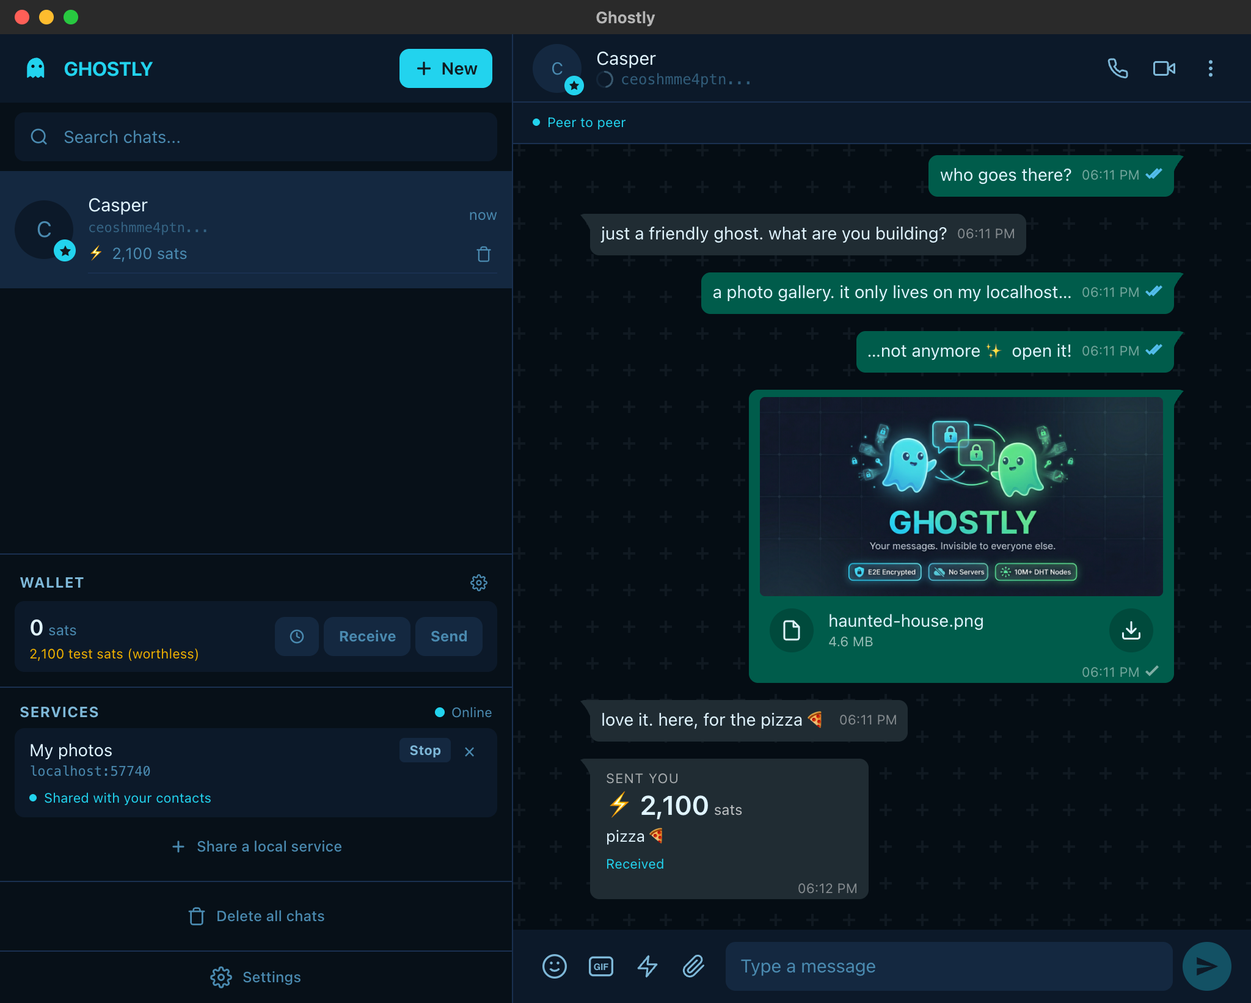
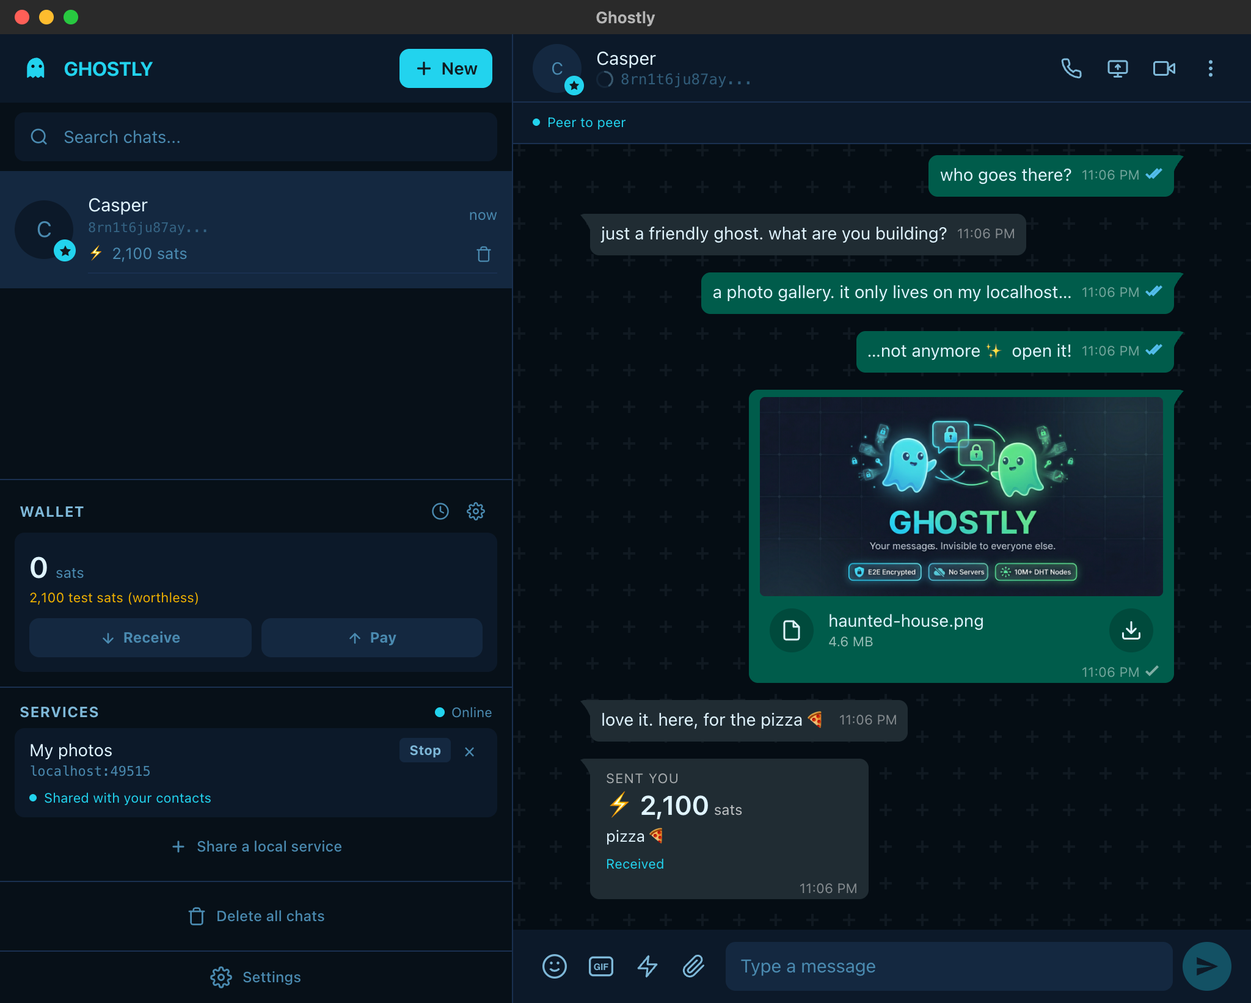
chore(release): 0.3.0
Version 0.3.0 everywhere, through a new scripts/bump-version.mjs that
sets every package.json, the lock files, the extension manifest, the
Tauri config, both crates, the website's download links and the install
guide in one go. The site now builds its download links from
website/lib/release.ts instead of repeating the version in ten places.

docs/INSTALLATION.md still pointed at v0.1.4 and did not mention the web
app or the extension. README features, WEB.md (phones, installing),
PROTOCOL.md (long messages over the data link), the site's features,
clients, FAQ and protocol docs, and its screenshots are brought up to
date. docs/RELEASING.md writes the release steps down.

diff --git a/website/components/Download.tsx b/website/components/Download.tsx
@@ -1,5 +1,6 @@
 "use client";
 
+import { DOWNLOADS, RELEASE_URL, VERSION } from "@/lib/release";
 import { motion } from "motion/react";
 import { Icon, IconTile } from "./icons";
 import { useEffect, useState } from "react";
@@ -145,7 +146,7 @@ export function Download() {
             </div>
             <div className="flex flex-col gap-2">
               <a
-                href="https://github.com/MiguelMedeiros/ghostly/releases/download/v0.2.0/Ghostly_0.2.0_aarch64.dmg"
+                href={DOWNLOADS.macArm}
                 className="flex items-center justify-between px-3 py-2 rounded-lg bg-cyan/10 text-cyan text-sm font-medium hover:bg-cyan/20 transition-colors"
               >
                 <span>Apple Silicon</span>
@@ -154,7 +155,7 @@ export function Download() {
                 </svg>
               </a>
               <a
-                href="https://github.com/MiguelMedeiros/ghostly/releases/download/v0.2.0/Ghostly_0.2.0_x64.dmg"
+                href={DOWNLOADS.macIntel}
                 className="flex items-center justify-between px-3 py-2 rounded-lg bg-gray-800/50 text-gray-400 text-sm hover:bg-gray-800 hover:text-gray-200 transition-colors"
               >
                 <span>Intel</span>
@@ -177,7 +178,7 @@ export function Download() {
             </div>
             <div className="flex flex-col gap-2">
               <a
-                href="https://github.com/MiguelMedeiros/ghostly/releases/download/v0.2.0/Ghostly_0.2.0_x64-setup.exe"
+                href={DOWNLOADS.windowsExe}
                 className="flex items-center justify-between px-3 py-2 rounded-lg bg-cyan/10 text-cyan text-sm font-medium hover:bg-cyan/20 transition-colors"
               >
                 <span>Installer (.exe)</span>
@@ -186,7 +187,7 @@ export function Download() {
                 </svg>
               </a>
               <a
-                href="https://github.com/MiguelMedeiros/ghostly/releases/download/v0.2.0/Ghostly_0.2.0_x64_en-US.msi"
+                href={DOWNLOADS.windowsMsi}
                 className="flex items-center justify-between px-3 py-2 rounded-lg bg-gray-800/50 text-gray-400 text-sm hover:bg-gray-800 hover:text-gray-200 transition-colors"
               >
                 <span>MSI Package</span>
@@ -209,7 +210,7 @@ export function Download() {
             </div>
             <div className="flex flex-col gap-2">
               <a
-                href="https://github.com/MiguelMedeiros/ghostly/releases/download/v0.2.0/Ghostly_0.2.0_amd64.deb"
+                href={DOWNLOADS.linuxDeb}
                 className="flex items-center justify-between px-3 py-2 rounded-lg bg-cyan/10 text-cyan text-sm font-medium hover:bg-cyan/20 transition-colors"
               >
                 <span>.deb</span>
@@ -218,7 +219,7 @@ export function Download() {
                 </svg>
               </a>
               <a
-                href="https://github.com/MiguelMedeiros/ghostly/releases/download/v0.2.0/Ghostly_0.2.0_amd64.AppImage"
+                href={DOWNLOADS.linuxAppImage}
                 className="flex items-center justify-between px-3 py-2 rounded-lg bg-gray-800/50 text-gray-400 text-sm hover:bg-gray-800 hover:text-gray-200 transition-colors"
               >
                 <span>.AppImage</span>
@@ -269,7 +270,7 @@ export function Download() {
             </div>
             <p className="text-sm text-gray-500 mb-3">Haunts while the browser is open. Shares your localhost.</p>
             <a
-              href="https://github.com/MiguelMedeiros/ghostly/releases/download/v0.2.0/ghostly-browser-extension-0.2.0.zip"
+              href={DOWNLOADS.extensionZip}
               className="inline-flex w-full justify-center px-4 py-2.5 rounded-lg border border-cyan/40 text-cyan text-sm font-semibold hover:bg-cyan/10 transition-all"
             >
               Download the .zip
@@ -290,9 +291,9 @@ export function Download() {
           transition={{ delay: 0.3 }}
           className="text-sm text-gray-500 mb-8"
         >
-          v0.2.0 •{" "}
+          v{VERSION} •{" "}
           <a
-            href="https://github.com/MiguelMedeiros/ghostly/releases/tag/v0.2.0"
+            href={RELEASE_URL}
             target="_blank"
             rel="noopener noreferrer"
             className="hover:text-cyan transition-colors underline underline-offset-2"

diff --git a/website/components/ProtocolV1.tsx b/website/components/ProtocolV1.tsx
@@ -207,6 +207,8 @@ flags  bit 0 = END`}</Pre>
             <>A relay is an HTTP bridge to the DHT: <C>PUT</C> and <C>GET /&lt;key&gt;</C> with <C>signature(64) · timestamp(8) · DNS packet</C>. It sees signed, encrypted packets and never carries application traffic.</>,
             "Public relays allow about 120 requests a minute per IP. Relay clients spend one request per poll (relays in turn, newest signed packet wins), back off on 429 and on network errors, and keep to 30 requests a minute per relay.",
             <>Publishes carry <C>If-Match: &lt;timestamp of the packet being replaced&gt;</C>; without it a relay refuses with 428 while the previous put is still in flight.</>,
+            <>Screen sharing changes nothing on the wire: the screen replaces the camera track on the video sender the call already has (<C>replaceTrack</C>), so any client in a video call receives it.</>,
+            "Chat messages over the data link may be up to 4000 characters, which lets a long Lightning invoice or an ecash token through; clients show those as cards with a QR code and a Pay or Redeem button.",
             "Relay poll timings: 4 s while a chat is open, 2 s while signaling (for at most 45 s), 30 s in the background, 60 s while the data link is up. DHT clients keep the timings below.",
           ]}
         />

diff --git a/website/components/Features.tsx b/website/components/Features.tsx
@@ -21,8 +21,8 @@ const features = [
     ),
   },
   {
-    title: "Voice & video",
-    tagline: "Peer to peer. Nobody in the middle.",
+    title: "Calls & screen sharing",
+    tagline: "Voice, video or your screen, peer to peer. Keep chatting while you talk.",
     icon: (
       <svg className="w-6 h-6" fill="none" stroke="currentColor" viewBox="0 0 24 24" strokeWidth={1.5}>
         <path strokeLinecap="round" strokeLinejoin="round" d="M15.75 10.5l4.72-4.72a.75.75 0 011.28.53v11.38a.75.75 0 01-1.28.53l-4.72-4.72M4.5 18.75h9a2.25 2.25 0 002.25-2.25v-9a2.25 2.25 0 00-2.25-2.25h-9A2.25 2.25 0 002.25 7.5v9a2.25 2.25 0 002.25 2.25z" />
@@ -49,7 +49,7 @@ const features = [
   },
   {
     title: "Sats",
-    tagline: "Ecash wallet with Lightning. Send and request in the chat.",
+    tagline: "Ecash wallet with Lightning. Paste an invoice, it becomes a Pay button.",
     icon: (
       <svg className="w-6 h-6" fill="none" stroke="currentColor" viewBox="0 0 24 24" strokeWidth={1.5}>
         <path strokeLinecap="round" strokeLinejoin="round" d="M3.75 13.5l10.5-11.25L12 10.5h8.25L9.75 21.75 12 13.5H3.75z" />

diff --git a/website/lib/release.ts b/website/lib/release.ts
@@ -1,0 +1,21 @@
+/**
+ * The release the site offers for download. `scripts/bump-version.mjs` sets it;
+ * every download link on the site is built from here.
+ */
+export const VERSION = "0.3.0";
+
+const BASE = "https://github.com/MiguelMedeiros/ghostly/releases";
+
+export const RELEASE_URL = `${BASE}/tag/v${VERSION}`;
+
+const asset = (name: string) => `${BASE}/download/v${VERSION}/${name}`;
+
+export const DOWNLOADS = {
+  macArm: asset(`Ghostly_${VERSION}_aarch64.dmg`),
+  macIntel: asset(`Ghostly_${VERSION}_x64.dmg`),
+  windowsExe: asset(`Ghostly_${VERSION}_x64-setup.exe`),
+  windowsMsi: asset(`Ghostly_${VERSION}_x64_en-US.msi`),
+  linuxDeb: asset(`Ghostly_${VERSION}_amd64.deb`),
+  linuxAppImage: asset(`Ghostly_${VERSION}_amd64.AppImage`),
+  extensionZip: asset(`ghostly-browser-extension-${VERSION}.zip`),
+} as const;

diff --git a/website/components/Clients.tsx b/website/components/Clients.tsx
@@ -7,7 +7,7 @@ const clients: { name: string; icon: IconName; pitch: string; cta: { label: stri
   {
     name: "Web",
     icon: "globe",
-    pitch: "Nothing to install. A ghost until you close the tab.",
+    pitch: "Nothing to install. On a phone it adds to the home screen like an app.",
     cta: { label: "Open app.ghostly.tools", href: "https://app.ghostly.tools" },
     note: "Beta",
   },
@@ -35,7 +35,7 @@ const clients: { name: string; icon: IconName; pitch: string; cta: { label: stri
 ];
 
 const rows: [string, boolean[]][] = [
-  ["Chat, voice & video", [true, true, true, false]],
+  ["Chat, voice, video & screen sharing", [true, true, true, false]],
   ["Text chat from scripts", [false, false, false, true]],
   ["Files and sats", [true, true, true, false]],
   ["Open a contact's web app", [false, true, true, false]],

diff --git a/website/components/FAQ.tsx b/website/components/FAQ.tsx
@@ -25,6 +25,11 @@ const faqs = [
       "Same client, same protocol. The web app needs no install but cannot share localhost or open a contact's app. The extension and desktop can. Desktop also reaches the DHT without relays.",
   },
   {
+    question: "Does it work on my phone?",
+    answer:
+      "Yes. Open app.ghostly.tools and add it to your home screen: it looks and behaves like a messenger app. Chat, calls, files and sats work; sharing your screen or a localhost app needs a computer.",
+  },
+  {
     question: "How is it encrypted?",
     answer:
       "NaCl secretbox (XSalsa20-Poly1305) with a 256-bit key per chat, shared in the invite. Keys never leave your device.",

diff --git a/CHANGELOG.md b/CHANGELOG.md
@@ -1,13 +1,22 @@
 # Changelog
 
-## Unreleased
+## 0.3.0
 
-- **Your own picture in a call moves and resizes.** Drag it anywhere, pull any corner to resize it. It keeps the shape of what it shows, camera or screen, never leaves the window, and a double click puts it back. The small call window resizes the same way.
-- **A simpler wallet.** A bigger balance with two plain actions, Receive and Pay. Pay reads a pasted Lightning invoice on the spot (amount, description, expired or not) before anything is asked of the mint. The mints list is one line per mint, with limits, the message of the day and the remove and make-primary actions a click away, and one sentence of context instead of a paragraph.
-- **A call you can put aside.** The call screen shrinks into a floating window that can be dragged anywhere and resized from its corner, so you can keep chatting, send files or sats while you talk. It remembers how you left it.
-- **Screen sharing.** In a video call, swap your camera for your screen and back; or start a call straight from "Share your screen" in the chat header. The screen rides on the video stream the call already has, so there is no new signaling and older clients receive it as ordinary video. A shared screen is shown whole instead of cropped. Needs a browser that can capture the screen, so not on phones.
-- **Money pasted into a chat reads as money.** A Lightning invoice shows its amount, description and expiry, with a QR code, a copy button, a link that opens a Lightning wallet on the device, and a Pay button that quotes the fee before anything is spent. Ecash tokens show their amount, mint and memo and can be redeemed from the card; Cashu payment requests are shown too. Long invoices and tokens fit once the peer to peer connection is open.
+Ghostly on your phone, and calls that do more. Nothing changes on the wire: 0.3.0 talks to 0.2.x and 0.1.x exactly as before.
+
+### New
+
 - **A phone layout that feels like a messenger.** Below 768px the app shows one screen at a time: the chat list, then the conversation with a back arrow. Wallet, Share and Settings are screens of their own behind a bottom tab bar; emoji, GIFs and payments open as bottom sheets; calls take the whole screen. The layout follows the visible viewport, so the message input stays above the keyboard, and respects the safe areas. The web app can be installed to the home screen. Wide screens are unchanged.
+- **Screen sharing.** In a video call, swap your camera for your screen and back; or start a call straight from "Share your screen" in the chat header. The screen rides on the video stream the call already has, so there is no new signaling and older clients receive it as ordinary video. A shared screen is shown whole instead of cropped. Needs a browser that can capture the screen, so not on phones.
+- **A call you can put aside.** The call screen shrinks into a floating window that can be dragged anywhere and resized from its corner, so you can keep chatting, send files or sats while you talk. It remembers how you left it.
+- **Your own picture in a call moves and resizes.** Drag it anywhere, pull any corner to resize it. It keeps the shape of what it shows, camera or screen, never leaves the window, and a double click puts it back. The small call window resizes the same way.
+- **Money pasted into a chat reads as money.** A Lightning invoice shows its amount, description and expiry, with a QR code, a copy button, a link that opens a Lightning wallet on the device, and a Pay button that quotes the fee before anything is spent. Ecash tokens show their amount, mint and memo and can be redeemed from the card; Cashu payment requests are shown too. Long invoices and tokens fit once the peer to peer connection is open.
+- **A simpler wallet.** A bigger balance with two plain actions, Receive and Pay. Pay reads a pasted Lightning invoice on the spot (amount, description, expired or not) before anything is asked of the mint. The mints list is one line per mint, with limits, the message of the day and the remove and make-primary actions a click away, and one sentence of context instead of a paragraph.
+
+### Fixed
+
+- In a call, your own picture stayed black after turning the camera off and on again.
+- The history said "1 movements".
 
 ## 0.2.0
 

diff --git a/docs/INSTALLATION.md b/docs/INSTALLATION.md
@@ -1,24 +1,36 @@
 # Installation
 
+## Nothing to install
+
+Open **https://app.ghostly.tools** in any browser. On a phone, add it to the home screen (Share → *Add to Home Screen* on iOS, ⋮ → *Install app* on Android) and it opens like a native app. See [WEB.md](WEB.md) for what a web page can and cannot do, and how to host it yourself.
+
+## Browser extension (Chrome, Brave, Edge)
+
+1. Download [ghostly-browser-extension-0.3.0.zip](https://github.com/MiguelMedeiros/ghostly/releases/download/v0.3.0/ghostly-browser-extension-0.3.0.zip) and unzip it somewhere you will keep.
+2. Open `chrome://extensions` and turn on **Developer mode**.
+3. Click **Load unpacked** and pick the folder.
+
+To update, replace the folder's contents with the new zip and press the reload arrow on the extension's card. It is not in the Chrome Web Store yet. More in [BROWSER.md](BROWSER.md).
+
 ## Desktop Apps
 
 | Platform | Architecture | Download |
 |----------|--------------|----------|
-| **macOS** | Apple Silicon (M1/M2/M3) | [Ghostly_aarch64.dmg](https://github.com/MiguelMedeiros/ghostly/releases/download/v0.1.4/Ghostly_0.1.4_aarch64.dmg) |
-| **macOS** | Intel (x64) | [Ghostly_x64.dmg](https://github.com/MiguelMedeiros/ghostly/releases/download/v0.1.4/Ghostly_0.1.4_x64.dmg) |
-| **Windows** | x64 (Installer) | [Ghostly_x64-setup.exe](https://github.com/MiguelMedeiros/ghostly/releases/download/v0.1.4/Ghostly_0.1.4_x64-setup.exe) |
-| **Windows** | x64 (MSI) | [Ghostly_x64.msi](https://github.com/MiguelMedeiros/ghostly/releases/download/v0.1.4/Ghostly_0.1.4_x64_en-US.msi) |
-| **Linux** | x64 (AppImage) | [Ghostly_amd64.AppImage](https://github.com/MiguelMedeiros/ghostly/releases/download/v0.1.4/Ghostly_0.1.4_amd64.AppImage) |
-| **Linux** | x64 (Debian/Ubuntu) | [Ghostly_amd64.deb](https://github.com/MiguelMedeiros/ghostly/releases/download/v0.1.4/Ghostly_0.1.4_amd64.deb) |
+| **macOS** | Apple Silicon (M1/M2/M3) | [Ghostly_aarch64.dmg](https://github.com/MiguelMedeiros/ghostly/releases/download/v0.3.0/Ghostly_0.3.0_aarch64.dmg) |
+| **macOS** | Intel (x64) | [Ghostly_x64.dmg](https://github.com/MiguelMedeiros/ghostly/releases/download/v0.3.0/Ghostly_0.3.0_x64.dmg) |
+| **Windows** | x64 (Installer) | [Ghostly_x64-setup.exe](https://github.com/MiguelMedeiros/ghostly/releases/download/v0.3.0/Ghostly_0.3.0_x64-setup.exe) |
+| **Windows** | x64 (MSI) | [Ghostly_x64.msi](https://github.com/MiguelMedeiros/ghostly/releases/download/v0.3.0/Ghostly_0.3.0_x64_en-US.msi) |
+| **Linux** | x64 (AppImage) | [Ghostly_amd64.AppImage](https://github.com/MiguelMedeiros/ghostly/releases/download/v0.3.0/Ghostly_0.3.0_amd64.AppImage) |
+| **Linux** | x64 (Debian/Ubuntu) | [Ghostly_amd64.deb](https://github.com/MiguelMedeiros/ghostly/releases/download/v0.3.0/Ghostly_0.3.0_amd64.deb) |
 
 ## CLI (Command Line)
 
 | Platform | Download |
 |----------|----------|
-| **macOS** (Apple Silicon) | [ghostly-cli-macos-arm64](https://github.com/MiguelMedeiros/ghostly/releases/download/v0.1.4/ghostly-cli-macos-arm64) |
-| **macOS** (Intel) | [ghostly-cli-macos-x64](https://github.com/MiguelMedeiros/ghostly/releases/download/v0.1.4/ghostly-cli-macos-x64) |
-| **Linux** (x64) | [ghostly-cli-linux-x64](https://github.com/MiguelMedeiros/ghostly/releases/download/v0.1.4/ghostly-cli-linux-x64) |
-| **Windows** (x64) | [ghostly-cli-windows-x64.exe](https://github.com/MiguelMedeiros/ghostly/releases/download/v0.1.4/ghostly-cli-windows-x64.exe) |
+| **macOS** (Apple Silicon) | [ghostly-cli-macos-arm64](https://github.com/MiguelMedeiros/ghostly/releases/download/v0.3.0/ghostly-cli-macos-arm64) |
+| **macOS** (Intel) | [ghostly-cli-macos-x64](https://github.com/MiguelMedeiros/ghostly/releases/download/v0.3.0/ghostly-cli-macos-x64) |
+| **Linux** (x64) | [ghostly-cli-linux-x64](https://github.com/MiguelMedeiros/ghostly/releases/download/v0.3.0/ghostly-cli-linux-x64) |
+| **Windows** (x64) | [ghostly-cli-windows-x64.exe](https://github.com/MiguelMedeiros/ghostly/releases/download/v0.3.0/ghostly-cli-windows-x64.exe) |
 
 Or install via Cargo:
 

diff --git a/README.md b/README.md
@@ -29,7 +29,7 @@
 
 [![Latest Release](https://img.shields.io/github/v/release/MiguelMedeiros/ghostly?style=for-the-badge&label=Download&color=22d3ee)](https://github.com/MiguelMedeiros/ghostly/releases)
 
-Available for macOS, Windows and Linux. See [Installation Guide](docs/INSTALLATION.md) for all options.
+Nothing to install: **[app.ghostly.tools](https://app.ghostly.tools)**, on a computer or a phone. Or the desktop app for macOS, Windows and Linux, or the browser extension: see the [Installation Guide](docs/INSTALLATION.md).
 
 **CLI:**
 
@@ -79,9 +79,13 @@ This works today in **[Ghostly Browser](docs/BROWSER.md)**, a Chromium extension
 ## Features
 
 - **E2E Encrypted** — 256-bit NaCl secretbox encryption
-- **Ephemeral** — Messages vanish from the DHT in ~5 hours
-- **Serverless** — No servers, no infrastructure
-- **Video & Voice Calls** — WebRTC peer-to-peer communication
+- **Ephemeral** — Messages vanish from the DHT in ~5 hours; everything else exists only while you are online
+- **Serverless** — No servers, no accounts
+- **Calls** — Voice, video and screen sharing, peer to peer, in a window you can put aside
+- **Share localhost** — A contact opens a web app running on your machine, while you are online
+- **Files** — Up to 100 MiB, straight to your contact
+- **Sats** — An ecash wallet with Lightning in and out; pasted invoices and tokens become cards you can pay or redeem
+- **Everywhere** — Desktop, browser extension and [a web app](https://app.ghostly.tools) that installs on a phone like a native one
 - **Open Source** — All code is open for audit
 
 ## Screenshots
@@ -113,11 +117,12 @@ This works today in **[Ghostly Browser](docs/BROWSER.md)**, a Chromium extension
 
 ## Documentation
 
-- [Installation](docs/INSTALLATION.md) — Download links, CLI install, build from source
+- [Installation](docs/INSTALLATION.md) — Web app, extension, desktop downloads, CLI, build from source
 - [Architecture](docs/ARCHITECTURE.md) — How it works, tech stack, security model
 - [Protocol](docs/PROTOCOL.md) — Records, service advertisements, WebRTC data link, HTTP over WebRTC
 - [Ghostly Browser](docs/BROWSER.md) — Run the extension, share a local app, limitations
-- [Ghostly on the web](docs/WEB.md) — The same client in a tab: `docker compose up`
+- [Ghostly on the web](docs/WEB.md) — The same client in a tab or on a phone: `docker compose up`
+- [Releasing](docs/RELEASING.md) — Version, tag, publish, deploy
 - [CLI Guide](docs/CLI.md) — Command reference and usage examples
 - [AI Agents](docs/AI-AGENTS.md) — Integration with OpenClaw, Cursor, bot examples
 - [Contributing](CONTRIBUTING.md) — How to contribute to the project

diff --git a/docs/RELEASING.md b/docs/RELEASING.md
@@ -1,0 +1,45 @@
+# Releasing
+
+A release is a tag. The `Release` workflow builds everything from it and leaves a **draft** on GitHub; nothing is public until the draft is published.
+
+## 1. Version
+
+```bash
+node scripts/bump-version.mjs 0.3.0
+```
+
+That sets the version in every `package.json`, the lock files, the extension manifest, the Tauri config, both crates, the website's download links (`website/lib/release.ts`) and the tables in `docs/INSTALLATION.md`, and turns `## Unreleased` in the changelog into `## 0.3.0`.
+
+Then, by hand:
+
+- **CHANGELOG.md**: read the section as a user would. One line of context on top, the biggest news first, fixes apart.
+- **What else mentions features**: `README.md` (Features), `docs/*.md`, and on the site `Features.tsx`, `Clients.tsx`, `FAQ.tsx`, `MockupApp.tsx` (screenshots) and `ProtocolV1.tsx` when the protocol changed. `node extension/test/site-screenshots.mjs` regenerates the screenshots.
+- **Protocol changes** go in `docs/PROTOCOL.md` first. Additive only: older clients must keep working.
+
+Check: `npm run typecheck && npm test && npm run test:e2e`, and `npx next build` in `website/`.
+
+Open a pull request with all of that (`chore(release): 0.3.0`) and merge it.
+
+## 2. Tag
+
+```bash
+git checkout main && git pull
+git tag v0.3.0 && git push origin v0.3.0
+```
+
+The workflow builds the desktop apps (macOS arm64 and x64, Windows, Linux), the CLI binaries, the extension zip and the web image (`ghcr.io/miguelmedeiros/ghostly-web`), and creates the draft with checksums. It takes about twenty minutes. The Giphy key comes from the `VITE_GIPHY_API_KEY` repository secret.
+
+If a build fails, fix it on `main`, move the tag (`git tag -f v0.3.0 && git push -f origin v0.3.0`) and delete the failed draft. Never move a tag whose release was published.
+
+## 3. Publish
+
+Check that the draft has all thirteen assets, give it the changelog section as notes, and publish it. The site's download buttons point at `releases/download/v0.3.0/…`, so they only work from this moment on.
+
+## 4. Deploy
+
+Only after publishing, or the site offers downloads that do not exist yet.
+
+- **app.ghostly.tools** serves `main`, so it usually has the features already. To move it to the release: `docker compose pull && docker compose up -d`, or build from the checkout with `docker compose up -d --build`.
+- **ghostly.tools**: rebuild the `website/` container.
+
+People with the **extension** replace the unpacked folder with the new zip and reload it. The **desktop app** has no updater: they download the new installer.

diff --git a/docs/WEB.md b/docs/WEB.md
@@ -39,6 +39,14 @@ src/desktop + src-tauri   host: peer in the WebView, Rust for the DHT, local app
 
 A host (`packages/browser/src/host.ts`) is the small part that differs: how a page reaches the peer, whether the user can grant access to local addresses, how a contact's web app is opened. Both clients build `src/` with the same Vite plugin (`packages/browser/vite-plugin.ts`).
 
+## On a phone
+
+Below 768px the app shows one screen at a time, like a messenger: the chat list, then the conversation with a back arrow, and a bottom bar for Chats, Wallet, Share and Settings. Emoji, GIFs and payments open as bottom sheets, calls take the whole screen, and the layout follows the visible viewport so the message input stays above the keyboard.
+
+It installs to the home screen (`manifest.json`, `display: standalone`, Apple metas). There is deliberately no service worker: a cached copy of the app would keep running after the server's copy changed, and the app is small.
+
+Screen sharing needs `getDisplayMedia`, which phone browsers do not have; the buttons do not show there.
+
 ## What a web page cannot do
 
 | | Web | Extension | Desktop |

diff --git a/docs/PROTOCOL.md b/docs/PROTOCOL.md
@@ -122,7 +122,7 @@ A DataChannel message is at most 16 KiB (16378 bytes of payload per chunk), a co
 |---|---|
 | `{ "t": "hello", "v": 1, "svc": <§3 object>, "nick"? }` | first frame in each direction; `svc` is the authoritative service list |
 | `{ "t": "svc", "svc": … }` | the service list changed |
-| `{ "t": "m", "ts", "m" }` | chat message; used instead of `_msgs` while the channel is open. On open, each side first sends the messages the peer had not acknowledged through Pkarr yet. Receivers deduplicate by `ts`. |
+| `{ "t": "m", "ts", "m" }` | chat message; used instead of `_msgs` while the channel is open. On open, each side first sends the messages the peer had not acknowledged through Pkarr yet. Receivers deduplicate by `ts`. Text may be up to 16 KiB here; the clients send up to 4000 characters, which is what lets a long Lightning invoice or an ecash token through, while `_msgs` stays at a few hundred. |
 | `{ "t": "call", "s": "<_call signal JSON>" }` | call signaling, in addition to `_call` |
 | `{ "t": "ping" \| "pong", "ts" }` | liveness |
 
